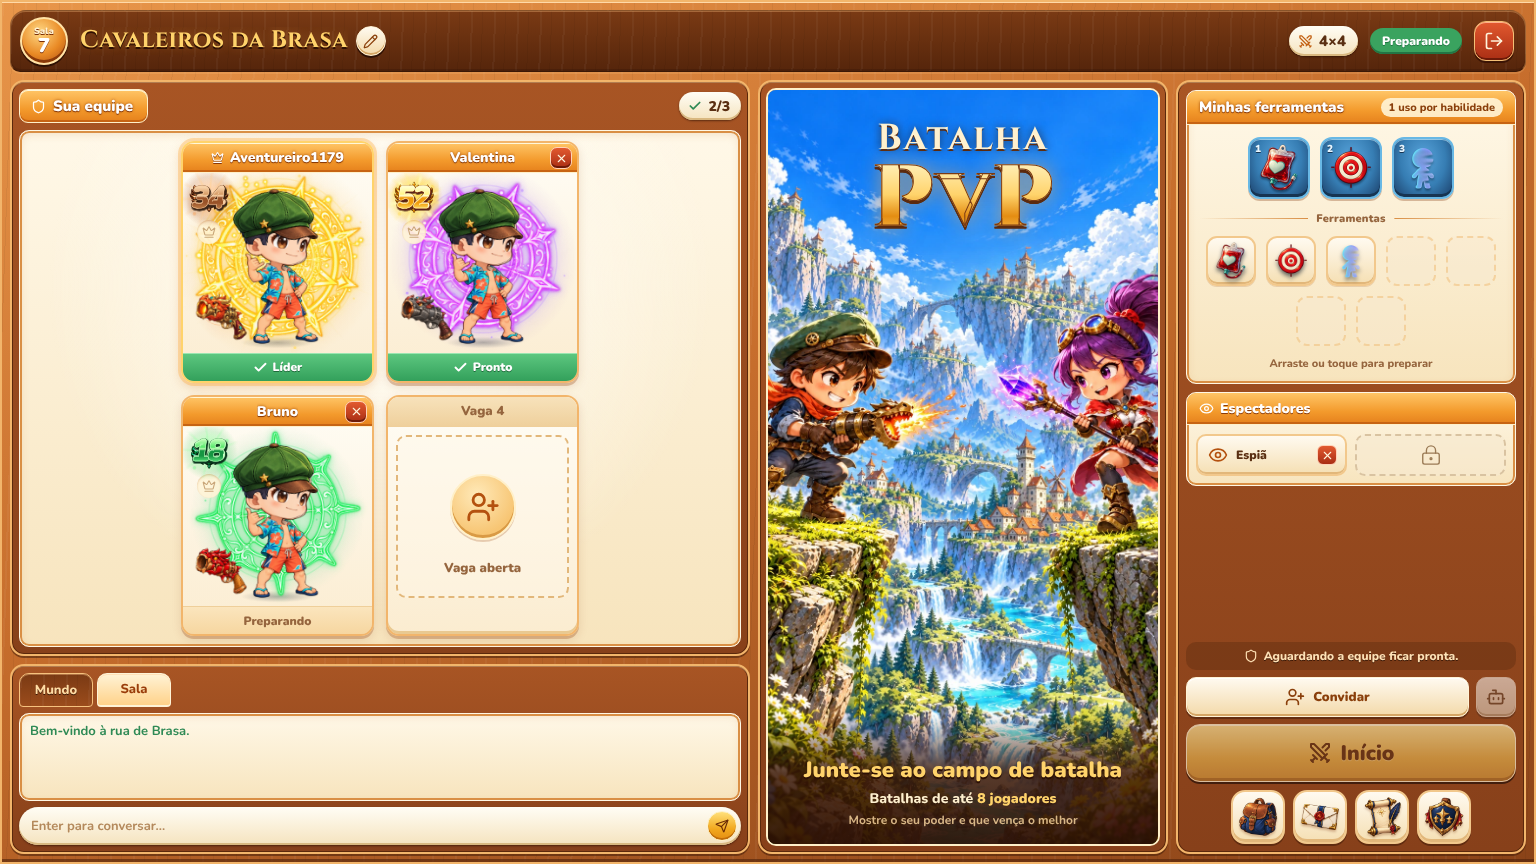
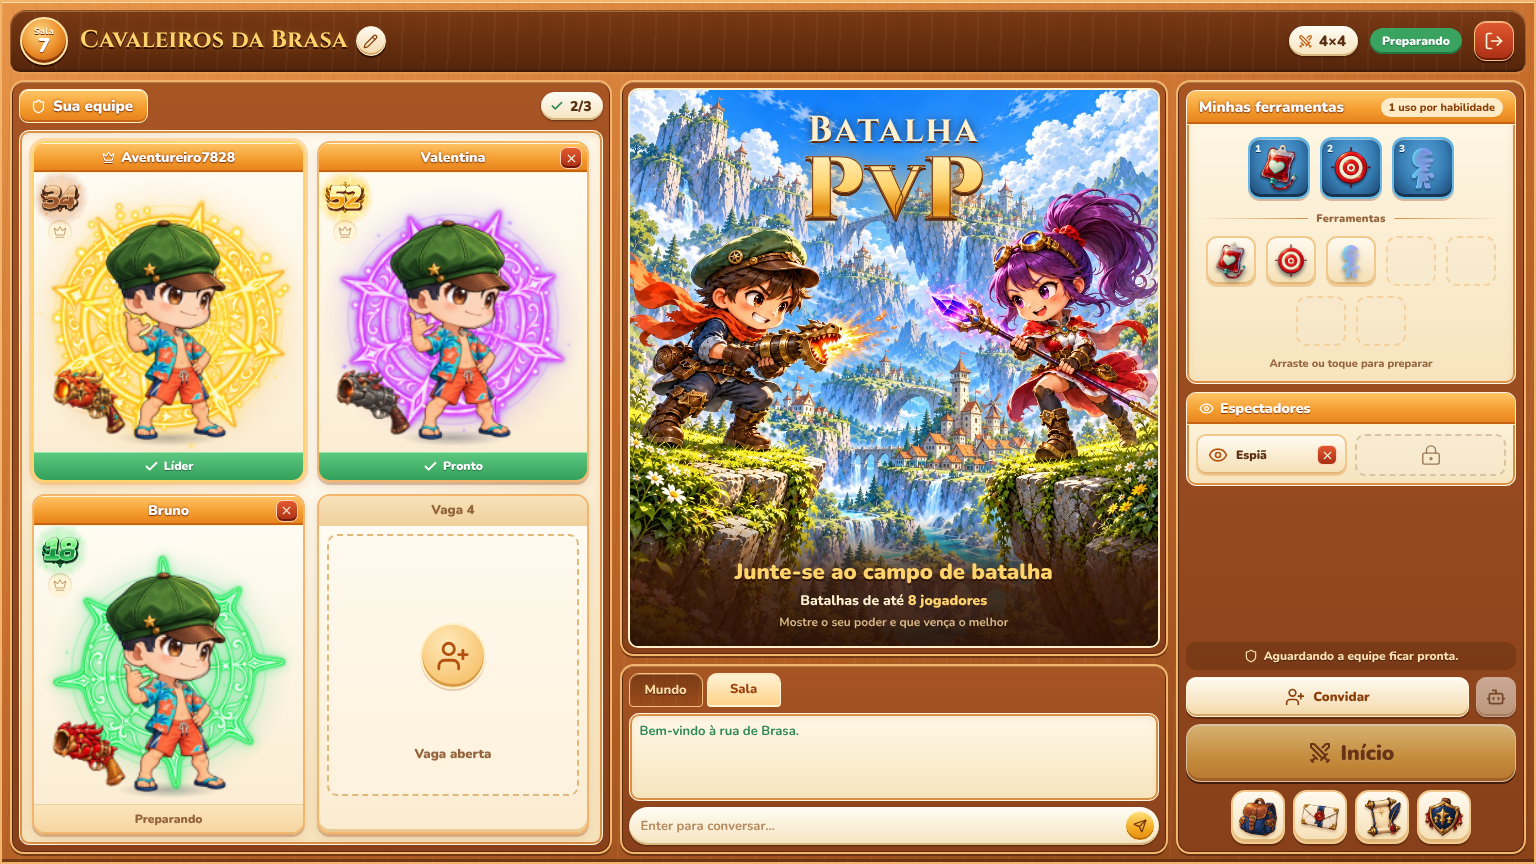
Size the room's team column to its cards on desktop
The team column now matches two 4:5 cards at the available height, so no
empty space is left beside them; the chat moves under the PvP banner.

Claude-Session: https://claude.ai/code/session_016cokYZuSYov3BwbyjMp7VU

diff --git a/src/components/Arena.tsx b/src/components/Arena.tsx
@@ -100,10 +100,8 @@ export function RoomView({onInventory}:{onInventory:()=>void}){
  const content=<section className={`arena-room-stage party-room compact-party-room pvp-room wood-window ${searching?'is-searching':''}`} aria-label={`Sala ${room.name}`}>
   <header className="party-heading pr-titlebar wood-titlebar"><div className="party-room-number" role="img" aria-label={`Sala ${room.number}`}><span>Sala</span><strong data-value={room.number}>{room.number}</strong></div><RoomName id={room.id} name={room.name} editable={canManage}/><span className="pr-format wood-pill" aria-label={`${size} contra ${size}`}><Swords size={15} aria-hidden="true"/>{size}×{size}</span><span className={`pr-room-state ${searching?'is-searching':''}`}>{stateLabel}</span><button type="button" className="wood-close pr-leave" aria-label="Sair da sala" title="Sair da sala" disabled={!online} onClick={()=>client.send({type:'leave'})}><LogOut size={20}/></button></header>
   <div className="pr-body">
-   <div className="pr-main">
-    <section className="party-team pr-team wood-pane" aria-label="Sua equipe"><header className="pr-pane-title"><h2 className="wood-ribbon"><Shield size={15} aria-hidden="true"/>Sua equipe</h2><span className="pr-ready-count wood-pill" aria-label={`${readyCount} de ${members.length} prontos`}><Check size={14} strokeWidth={3} aria-hidden="true"/>{readyCount}/{members.length}</span></header><div className="pr-team-cards wood-cream"><div className="pr-team-grid">{SLOT_INDICES.map(slot=><PlayerCard key={slot} seat={members.find(member=>member.slot===slot)} slot={slot} open={room.openSlots.includes(slot)} hostId={room.hostId} mine={members.find(member=>member.slot===slot)?.id===profile.id} canManage={canManage}/>)}</div></div></section>
-    <div className="party-chat pr-chat wood-pane wood-chat"><Chat/></div>
-   </div>
+   <section className="party-team pr-team wood-pane" aria-label="Sua equipe"><header className="pr-pane-title"><h2 className="wood-ribbon"><Shield size={15} aria-hidden="true"/>Sua equipe</h2><span className="pr-ready-count wood-pill" aria-label={`${readyCount} de ${members.length} prontos`}><Check size={14} strokeWidth={3} aria-hidden="true"/>{readyCount}/{members.length}</span></header><div className="pr-team-cards wood-cream"><div className="pr-team-grid">{SLOT_INDICES.map(slot=><PlayerCard key={slot} seat={members.find(member=>member.slot===slot)} slot={slot} open={room.openSlots.includes(slot)} hostId={room.hostId} mine={members.find(member=>member.slot===slot)?.id===profile.id} canManage={canManage}/>)}</div></div></section>
+   <div className="party-chat pr-chat wood-pane wood-chat"><Chat/></div>
    <section className="party-pvp-banner pr-banner wood-pane" aria-label="Batalha PvP"><div className="pr-banner-art"><img src="/assets/ui/pvp-room-banner-v2.webp" alt="" draggable={false}/><h2 aria-label="Batalha PvP"><span aria-hidden="true">Batalha</span><strong aria-hidden="true" data-text="PvP">PvP</strong></h2><div className="party-pvp-caption"><h3>Junte-se ao campo de batalha</h3><p>Batalhas de até <strong>8 jogadores</strong></p><span>Mostre o seu poder e que vença o melhor</span></div></div></section>
    <aside className="pr-side wood-pane"><div className="pr-side-scroll"><AbilityPreparation loadout={abilityLoadoutDraft??normalizeAbilityLoadout(profile.abilityLoadout)} disabled={spectator||!waiting||!online} pending={abilityLoadoutPending} onChange={slots=>client.setAbilityLoadout(slots)}/><RoomSpectators players={room.spectators??[]} openSlots={room.spectatorSlots??[]} canManage={host&&online} onToggle={(slot,open)=>client.send({type:'room-spectator-slot',slot,open})} onKick={playerId=>client.send({type:'spectator-kick',playerId})}/></div>{controls}<RoomMenus equippedOnce={profile.equippedOnce} matches={profile.matches} onInventory={onInventory} disabled={!waiting||!online}/></aside>
   </div>

diff --git a/src/components/Arena.css b/src/components/Arena.css
@@ -29,8 +29,13 @@
 .pvp-room .pr-room-state.is-searching{background:#3d84d6;box-shadow:inset 0 -2px #235aa0;text-shadow:0 1px #235aa0}
 
 /* ---------- Corpo ---------- */
-.pvp-room .pr-body{display:grid;grid-template-columns:minmax(0,1.3fr) minmax(220px,.72fr) clamp(300px,23vw,350px);gap:8px;min-width:0;min-height:0}
-.pvp-room .pr-main{display:grid;grid-template-rows:minmax(0,1fr) clamp(140px,22vh,190px);gap:8px;min-width:0;min-height:0}
+/* Desktop: a coluna da equipe tem a largura exata das cartas 4:5 na altura
+   disponível, sem sobra nas laterais; a conversa fica sob a faixa PvP. */
+.pvp-room .pr-body{--card-fit:min(310px,calc((100dvh - 177px) / 2 * .8));display:grid;grid-template-columns:calc(var(--card-fit) * 2 + 52px) minmax(0,1fr) clamp(300px,23vw,350px);grid-template-rows:minmax(0,1fr) clamp(140px,22vh,190px);grid-template-areas:"team banner side" "team chat side";gap:8px;min-width:0;min-height:0}
+.pvp-room .pr-team{grid-area:team}
+.pvp-room .pr-banner{grid-area:banner}
+.pvp-room .pr-chat{grid-area:chat}
+.pvp-room .pr-side{grid-area:side}
 .pvp-room .pr-team{display:grid;grid-template-rows:34px minmax(0,1fr);gap:7px;min-width:0;min-height:0;padding:7px}
 .pvp-room .pr-pane-title{display:flex;align-items:center;justify-content:space-between;gap:8px;min-width:0}
 .pvp-room .pr-pane-title h2{display:flex;align-items:center;gap:7px;height:100%;margin:0;padding:0 14px 0 11px;border-radius:9px;font-size:15px;font-weight:900}
@@ -158,13 +163,12 @@
 
 /* ---------- Telas menores (desktop) ---------- */
 @media(max-width:1180px){
- html:not(.mobile-landscape) .pvp-room .pr-body{grid-template-columns:minmax(0,1fr) 320px}
+ html:not(.mobile-landscape) .pvp-room .pr-body{grid-template-columns:calc(var(--card-fit) * 2 + 52px) minmax(0,1fr) 320px;grid-template-rows:minmax(0,1fr);grid-template-areas:"team chat side"}
  html:not(.mobile-landscape) .pvp-room .pr-banner{display:none}
 }
 @media(max-width:760px){
  html:not(.mobile-landscape) .arena-room-portal .pvp-room{grid-template-rows:56px minmax(0,1fr);overflow:auto}
- html:not(.mobile-landscape) .pvp-room .pr-body{grid-template-columns:minmax(0,1fr);grid-auto-rows:auto}
- html:not(.mobile-landscape) .pvp-room .pr-main{grid-template-rows:minmax(420px,62vh) 170px}
+ html:not(.mobile-landscape) .pvp-room .pr-body{grid-template-columns:minmax(0,1fr);grid-template-rows:minmax(420px,62vh) 170px auto;grid-template-areas:"team" "chat" "side"}
  html:not(.mobile-landscape) .pvp-room :is(.pr-format,.pr-room-state){display:none}
 }
 
@@ -181,9 +185,8 @@ html.mobile-landscape .pvp-room .party-rename-form input{font-size:13px}
 html.mobile-landscape .pvp-room .pr-format{height:24px;font-size:12px}
 html.mobile-landscape .pvp-room .pr-room-state{padding:3px 9px;font-size:10px}
 html.mobile-landscape .pvp-room .pr-leave{width:34px;height:34px;border-radius:10px}
-html.mobile-landscape .pvp-room .pr-body{grid-template-columns:minmax(0,1fr) clamp(214px,31vw,290px);gap:5px}
+html.mobile-landscape .pvp-room .pr-body{grid-template-columns:minmax(0,1fr) clamp(214px,31vw,290px);grid-template-rows:minmax(0,1fr) clamp(78px,24vh,120px);grid-template-areas:"team side" "chat side";gap:5px}
 html.mobile-landscape .pvp-room .pr-banner{display:none}
-html.mobile-landscape .pvp-room .pr-main{grid-template-rows:minmax(0,1fr) clamp(78px,24vh,120px);gap:5px}
 html.mobile-landscape .pvp-room .pr-team{grid-template-rows:24px minmax(0,1fr);gap:4px;padding:4px;border-radius:12px}
 html.mobile-landscape .pvp-room .pr-pane-title h2{padding:0 10px 0 8px;border-radius:7px;font-size:11px}
 html.mobile-landscape .pvp-room .pr-pane-title h2 svg{width:12px;height:12px}
